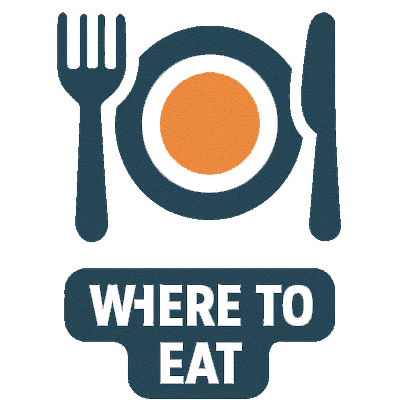
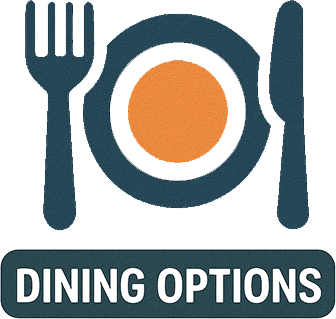
Add files via upload

diff --git a/compendium/Compendium_2.html b/compendium/Compendium_2.html
@@ -70,23 +70,19 @@
   </style>
 </head>
 <body>
-  <h1>Where to Eat</h1>
+  <h1>Dinning Options</h1>
 
   <div class="eat-section">
     <img src="../images/rubens_1.jpg" alt="Rubens">
     <div class="eat-text">
-      <p><strong>
-  <a href="https://www.rubensrestaurant.com" target="_blank" rel="noopener noreferrer" style="color: #0066cc; text-decoration: underline;">
-    Rubens
-  </a>
-</strong>: A short stroll from the Villa, Rubens is a fully licensed restaurant serving Mediterranean style cuisine in a friendly atmosphere with relaxed table service. Located on the main road between the towns of Daylesford and Hepburn Springs you can enjoy bush views from the al-fresco dining area or warm up inside near the log fire.</p>
+      <p><strong>Rubens</strong>: A short stroll from the Villa, Rubens is a fully licensed restaurant serving Mediterranean style cuisine in a friendly atmosphere with relaxed table service. Located on the main road between the towns of Daylesford and Hepburn Springs you can enjoy bush views from the al-fresco dining area or warm up inside near the log fire.</p>
     </div>
   </div>
 
   <div class="eat-section">
     <img src="../images/cliffys.jpg" alt="Cliffy's Emporium">
     <div class="eat-text">
-      <p><strong><a href="https://www.cliffys.com.au" target="_blank" style="color: #0066cc; text-decoration: underline;">Cliffy's Emporium</a></strong>: Open for Breakfast, Brunchand Lunch, Cliffy’s has become one of the region’s best known cafes. Locals sometimes drop in two or three times a day for exceptional coffee, while visitors love pulling up a stool at one of the original long timber counters or sitting outdoors under the shade of the verandah and grapevines. The old bike shop next door has become part of Cliffy’s café, with comfortable seating and tables and a really cosy fireplace.</p>
+      <p><strong>Cliffy's Emporium</a></strong>: Open for Breakfast, Brunchand Lunch, Cliffy’s has become one of the region’s best known cafes. Locals sometimes drop in two or three times a day for exceptional coffee, while visitors love pulling up a stool at one of the original long timber counters or sitting outdoors under the shade of the verandah and grapevines. The old bike shop next door has become part of Cliffy’s café, with comfortable seating and tables and a really cosy fireplace.</p>
     </div>
   </div>
 
@@ -116,7 +112,7 @@ Our wine and beverage offering also leans towards the small scale, regenerative 
   <div class="eat-section">
     <img src="../images/sault.jpg" alt="Sault Restaurant">
     <div class="eat-text">
-      <p><strong><a href="https://www.sault.com.au" target="_blank" style="color: #0066cc; text-decoration: underline;">Sault</a></strong>: Sault Estate was named by the original owners, after a small French township renowned for its lavender, in the Provence-Alpes-Côte d’Azur region of South-eastern France. Seasonal menus are designed to incorporate the freshest ingredients with the highest quality produce we can source, with a strong focus on our Sault kitchen gardens, regional organic farms and producers.</p>
+      <p><strong>Sault</a></strong>: Sault Estate was named by the original owners, after a small French township renowned for its lavender, in the Provence-Alpes-Côte d’Azur region of South-eastern France. Seasonal menus are designed to incorporate the freshest ingredients with the highest quality produce we can source, with a strong focus on our Sault kitchen gardens, regional organic farms and producers.</p>
     </div>
   </div>
 
@@ -131,7 +127,7 @@ Omotenashi (おもてなし), meaning honest service and honest food, is at the 
    <div class="eat-section">
     <img src="../images/wombat hill house.png" alt="Pancho Café">
     <div class="eat-text">
-      <p><strong><a href="https://www.lakehouse.com.au/wombat-hill-house/" target="_blank" style="color: #0066cc; text-decoration: underline;">Wombat Hill House</a></strong>: Café in the beautiful Wombat Hill Botanic Gardens, Daylesford. Here you will find a seasonal menu with a nod to our region and plenty of produce from our Dairy Flat Farm as well as selected trusted suppliers.</p>
+      <p><strong>Wombat Hill House</a></strong>: Café in the beautiful Wombat Hill Botanic Gardens, Daylesford. Here you will find a seasonal menu with a nod to our region and plenty of produce from our Dairy Flat Farm as well as selected trusted suppliers.</p>
     </div>
   </div>
 

diff --git a/compendium/Compendium_5.html b/compendium/Compendium_5.html
@@ -146,7 +146,7 @@ ul
   none;border-bottom:solid windowtext 1.0pt;border-right:solid windowtext 1.0pt;
   padding:0cm 5.4pt 0cm 5.4pt'>
   <p class=MsoNormal style='margin-bottom:0cm;line-height:normal'><img
-  width=110 height=113 src="Tips%20and%20Tricks_files/image001.jpg"></p>
+  width=110 height=113 src="../images/tv.png"></p>
   </td>
  </tr>
  <tr>
@@ -219,7 +219,7 @@ ul
   <p class=MsoNormal style='margin-bottom:0cm;line-height:normal'><b>&nbsp;</b></p>
   <p class=MsoNormal style='margin-bottom:0cm;line-height:normal'><b>&nbsp;</b></p>
   <p class=MsoNormal style='margin-bottom:0cm;line-height:normal'><img
-  width=128 height=155 src="Tips%20and%20Tricks_files/image002.jpg"></p>
+  width=128 height=155 src="../images/aircon.png"></p>
   </td>
  </tr>
  <tr>
@@ -292,7 +292,7 @@ ul
   none;border-bottom:solid windowtext 1.0pt;border-right:solid windowtext 1.0pt;
   padding:0cm 5.4pt 0cm 5.4pt'>
   <p class=MsoNormal style='margin-bottom:0cm;line-height:normal'><img
-  width=201 height=201 src="Tips%20and%20Tricks_files/image003.jpg"></p>
+  width=201 height=201 src="../images/soundbar.png"></p>
   </td>
  </tr>
  <tr>
@@ -366,9 +366,9 @@ ul
   none;border-bottom:solid windowtext 1.0pt;border-right:solid windowtext 1.0pt;
   padding:0cm 5.4pt 0cm 5.4pt'>
   <p class=MsoNormal style='margin-bottom:0cm;line-height:normal'><img
-  width=179 height=89 src="Tips%20and%20Tricks_files/image004.jpg"></p>
+  width=179 height=89 src="../images/coffee_1.png"></p>
   <p class=MsoNormal style='margin-bottom:0cm;line-height:normal'><img
-  width=177 height=85 src="Tips%20and%20Tricks_files/image005.jpg"></p>
+  width=177 height=85 src="../images/coffee_2.png"></p>
   </td>
  </tr>
  <tr>
@@ -491,7 +491,7 @@ ul
   none;border-bottom:solid windowtext 1.0pt;border-right:solid windowtext 1.0pt;
   padding:0cm 5.4pt 0cm 5.4pt'>
   <p class=MsoNormal style='margin-bottom:0cm;line-height:normal'><img
-  width=226 height=180 src="Tips%20and%20Tricks_files/image006.jpg"></p>
+  width=226 height=180 src="../images/stove.png"></p>
   </td>
  </tr>
  <tr>
@@ -575,7 +575,7 @@ clear=all style='page-break-before:always'>
   none;border-bottom:solid windowtext 1.0pt;border-right:solid windowtext 1.0pt;
   padding:0cm 5.4pt 0cm 5.4pt'>
   <p class=MsoNormal style='margin-bottom:0cm;line-height:normal'><img
-  width=233 height=205 src="Tips%20and%20Tricks_files/image007.jpg"></p>
+  width=233 height=205 src="../images/fireplace.png"></p>
   </td>
  </tr>
  <tr>
@@ -712,7 +712,7 @@ clear=all style='page-break-before:always'>
   padding:0cm 5.4pt 0cm 5.4pt'>
   <p class=MsoNormal style='margin-bottom:0cm;line-height:normal'><img
   width=251 height=254 id="Picture 1"
-  src="Tips%20and%20Tricks_files/image008.jpg"></p>
+  src="../images/bbq.png"></p>
   </td>
  </tr>
  <tr>

diff --git a/compendium/Compendium_3.html b/compendium/Compendium_3.html
@@ -1,4 +1,3 @@
-
 <!DOCTYPE html>
 <html lang="en">
 <head>
@@ -70,7 +69,7 @@
   </style>
 </head>
 <body>
-  <h1>Things to Do</h1>
+  <h1>Explore</h1>
 
   <div class="eat-section">
     <img src="../images/spa.jpg" alt="The Mineral Spa">
@@ -82,7 +81,7 @@
   <div class="eat-section">
     <img src="../images/wombat gardens.jpg" alt="">
     <div class="eat-text">
-      <p><strong><a href="https://www.visitvictoria.com/regions/daylesford-and-the-macedon-ranges/see-and-do/nature-and-wildlife/parks-and-gardens/vv-wombat-hill-botanic-gardens" target="_blank" style="color: #0066cc; text-decoration: underline;">Wombat Hill Botanic Gardens</a></strong>: Located at the top of Wombat Hill in the centre of Daylesford is the historic Wombat Hill Botanic Gardens. Take the scenic drive around the gardens and then stop for a while to explore. Climb the 77 stairs to the top of the Memorial Tower for views across the town. Whilst here you can explore the many areas throughout the gardens including the fernery, rotunda and begonia house. Allow time to take a break for a coffee at the café hidden amongst the plants.</p>
+      <p><strong>Wombat Hill Botanic Gardens</a></strong>: Located at the top of Wombat Hill in the centre of Daylesford is the historic Wombat Hill Botanic Gardens. Take the scenic drive around the gardens and then stop for a while to explore. Climb the 77 stairs to the top of the Memorial Tower for views across the town. Whilst here you can explore the many areas throughout the gardens including the fernery, rotunda and begonia house. Allow time to take a break for a coffee at the café hidden amongst the plants.</p>
     </div>
   </div>
 
@@ -110,7 +109,7 @@
   <div class="eat-section">
     <img src="../images/convent.jpg" alt="Convent Gallery">
     <div class="eat-text">
-      <p><strong><a href="https://conventgallery.com.au" target="_blank" style="color: #0066cc; text-decoration: underline;">Convent Gallery</a></strong>: Nestled on the crest of Wombat Hill Botanical Gardens, over-looking Daylesford, The Convent boasts expansive views of the countryside and township below. A feast for the senses, the gallery is more than a three level haven of fine art in an historic 19th century mansion.</p>
+      <p><strong>Convent Gallery</a></strong>: Nestled on the crest of Wombat Hill Botanical Gardens, over-looking Daylesford, The Convent boasts expansive views of the countryside and township below. A feast for the senses, the gallery is more than a three level haven of fine art in an historic 19th century mansion.</p>
     </div>
   </div>
 

diff --git a/contact.html b/contact.html
@@ -44,7 +44,7 @@
       margin-top: 20px;
     }
     .social-icons a img {
-      width: 32px;
+      width: 60px;
       margin: 0 8px;
       opacity: 0.6;
       vertical-align: middle;
